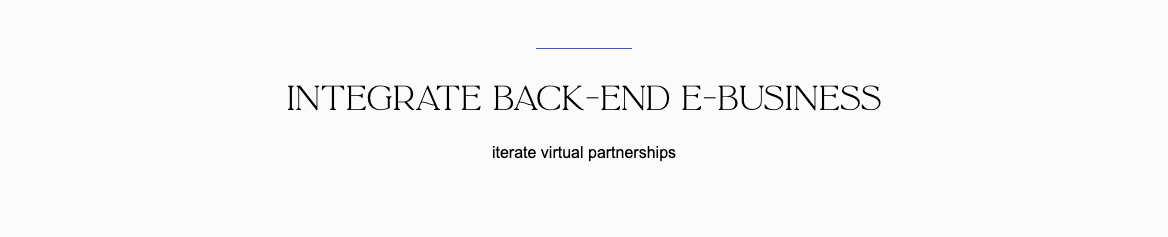
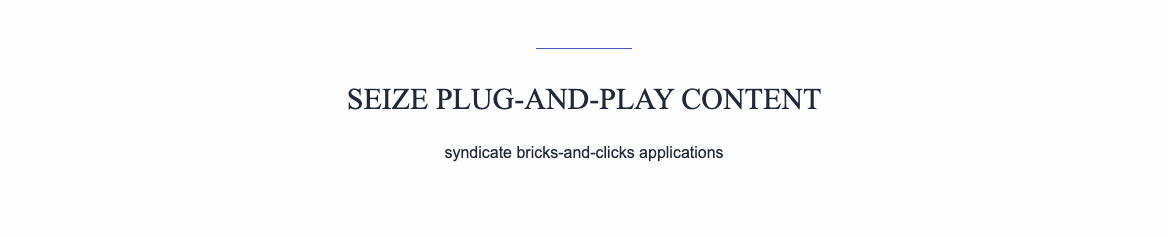
overall improvements to text formatting

Changed region(s): [[0.2466, 0.3544, 0.7705, 0.4726], [0.3699, 0.6203, 0.6164, 0.6793]]

diff --git a/slices/TestimonialsGrid/index.js b/slices/TestimonialsGrid/index.js
@@ -1,5 +1,6 @@
 import React from 'react';
-import { RichText } from 'prismic-reactjs';
+import {hrefResolver} from '../../prismic-configuration'
+import Link from 'next/link';
 
 const MySlice = ({ slice }) => (
 <section className="bg-brand-zero py-12 px-8">
@@ -7,23 +8,20 @@ const MySlice = ({ slice }) => (
       <div className="border-t border-brand-gray w-24 pb-4"></div>
       <div className="uppercase text-left text-base font-light pb-2 text-brand-gray">
         {
-          slice.primary.pretitle ?
+          slice.primary.pretitle &&
           <p>{slice.primary.pretitle}</p>
-          : <p>Template slice, update me!</p>
         }
       </div>
       <div className="font-serif uppercase text-left text-3xl text-brand-gray">
         {
-          slice.primary.heading ?
+          slice.primary.heading &&
           <p>{slice.primary.heading}</p>
-          : <p>Template slice, update me!</p>
         }
       </div>
-      <div className="text-base text-left py-2 font-light text-brand-gray">
+      <div className="text-lg text-left py-2 font-light text-brand-gray">
         {
-          slice.primary.description ?
+          slice.primary.description &&
           <p>{slice.primary.description}</p>
-          : <p>Template slice, update me!</p>
         }
       </div>
       <div className="space-x-4 w-full grid grid-cols-1 md:grid-cols-2 lg:grid-cols-3 justify-center py-4">
@@ -31,16 +29,14 @@ const MySlice = ({ slice }) => (
         <div className="border border-brand-three bg-brand-gray col-span-1 flex flex-col items-center p-4 shadow-md">
           <div className="text-lg font-light italic text-center">
                   {
-                    item.testimonial ?
+                    item.testimonial &&
                     <p className="text-gray-800">"<br></br>{item.testimonial}</p>
-                    : <p>Template slice, update me!</p>
                   }
           </div>
           <div className="text-base text-center py-4 font-light capitalize">
                   {
-                    item.name ?
+                    item.name &&
                     <p className="text-gray-800">{item.name}</p>
-                    : <p>Template slice, update me!</p>
                   }
           </div>
 
@@ -49,10 +45,14 @@ const MySlice = ({ slice }) => (
       ))}
       </div>
       <div className="flex flex-row-reverse">
-      {slice.primary.linktext &&
-      <button className="bg-brand-gray border border-brand-two text-brand-zero px-3 py-2 font-serif hover:bg-opacity-90">
-            <p>{slice.primary.linktext}</p>
-      </button>
+      {slice.primary.linktext && slice.primary.link &&
+      <Link href={hrefResolver(slice.primary.link)}>
+        <a>
+          <button className="bg-brand-gray text-lg border border-brand-two text-brand-zero px-3 py-2 font-serif hover:bg-opacity-90">
+                <p>{slice.primary.linktext}</p>
+          </button>
+        </a>
+      </Link>
       }
       </div>
       

diff --git a/slices/SmallGrid/index.js b/slices/SmallGrid/index.js
@@ -13,51 +13,53 @@ const MySlice = ({ slice }) => (
           <p>{slice.primary.pretitle}</p>
         }
       </div>
-      <div className="font-serif uppercase text-left text-3xl">
+      <div className="font-serif uppercase text-left py-1 text-3xl">
         {
           slice.primary.heading &&
           <p>{slice.primary.heading}</p>
         }
       </div>
-      <div className="text-base text-left py-2 font-light">
+      <div className="text-lg text-left py-2 font-light">
         {
           slice.primary.description &&
           <p>{slice.primary.description}</p>
         }
       </div>
-      <div className="space-x-4 w-full grid grid-cols-1 md:grid-cols-2 lg:grid-cols-3 gap-4 justify-center pt-4">
+      <div className="w-full grid grid-cols-1 md:grid-cols-2 lg:grid-cols-3 gap-4 justify-center pt-4">
         {slice.items.map((item) => (
+        <Link href={hrefResolver(item.link)}>
+          <a className="hover:bg-brand-four hover:opacity-90">
         <div className="border border-brand-six col-span-1 flex flex-col items-center p-4">
           <div className="w-full overflow-hidden h-72">
             <img
                 src={`${item.image.url}`}
-                className="w-full overflow-hidden h-72 bg-cover"
+                className="w-full overflow-hidden h-72 object-cover"
               />
           </div>
-          <div className="pt-4 text-lg font-serif text-center font-light uppercase">
+          <div className="pt-4 text-xl font-serif text-center font-light uppercase">
                   {
                     item.heading &&
                     <p>{item.heading}</p>
                   }
           </div>
-          <div className="text-base text-center py-4 font-light capitalize">
+          <div className="text-base text-center pt-2 font-light capitalize">
                   {
                     item.description &&
                     <p>{item.description}</p>
                   }
           </div>
-         
-          <Link href={hrefResolver(item.link)}>
-          <a className="bg-brand-gray border border-brand-five text-brand-six hover:bg-brand-four px-3 py-2 font-serif hover:bg-opacity-90">
+          {/* <Link href={hrefResolver(item.link)}>
+          <a className="bg-brand-gray border text-lg border-brand-five text-brand-six hover:bg-brand-four px-3 py-2 font-serif hover:bg-opacity-90">
           {
             item.linktext &&
             <p>{item.linktext}</p>
           }
           
           </a>
-          </Link>
+          </Link> */}
         </div>
-        
+        </a>
+        </Link>
       ))}
       </div>
     </div>

diff --git a/utils/prismicHelpers.js b/utils/prismicHelpers.js
@@ -65,12 +65,36 @@ export const htmlSerializer = function(type, element, content, children, key) {
 
     // Add a class to paragraph elements
     case Elements.paragraph:
-      props = {className: 'font-light text-gray-800'};
+      props = {className: 'font-light text-lg text-gray-800 py-2'};
       return React.createElement('p', propsWithUniqueKey(props, key), children);
+
+    case Elements.heading1:
+      props = {className: 'font-light text-3xl text-gray-800 py-2'};
+      return React.createElement('h1', propsWithUniqueKey(props, key), children);  
+
+    case Elements.heading2:
+      props = {className: 'font-light text-2xl text-gray-800 py-2'};
+      return React.createElement('h2', propsWithUniqueKey(props, key), children); 
+
+    case Elements.heading3:
+      props = {className: 'font-light text-xl text-gray-800 py-2'};
+      return React.createElement('h3', propsWithUniqueKey(props, key), children);
+
+    case Elements.heading4:
+      props = {className: 'font-light text-lg text-gray-800 py-2'};
+      return React.createElement('h4', propsWithUniqueKey(props, key), children);  
+
+    case Elements.heading5:
+      props = {className: 'font-light text-lg text-gray-800 py-2 uppercase'};
+      return React.createElement('h5', propsWithUniqueKey(props, key), children); 
+
+    case Elements.heading6:
+      props = {className: 'font-light text-base text-gray-800 py-2 uppercase'};
+      return React.createElement('h6', propsWithUniqueKey(props, key), children); 
 
     // Don't wrap images in a <p> tag
     case Elements.image: 
-      props = { src: element.url , alt: element.alt || '' };
+      props = { src: element.url , alt: element.alt || '', className: "w-full py-4" };
       return React.createElement('img', propsWithUniqueKey(props, key));
 
     // Add a class to hyperlinks

diff --git a/slices/BannerSlice/index.js b/slices/BannerSlice/index.js
@@ -1,5 +1,7 @@
 import React from 'react';
 import { RichText } from 'prismic-reactjs';
+import {hrefResolver} from '../../prismic-configuration'
+import Link from 'next/link';
 
 const MySlice = ({ slice }) => (
   <section className="bg-brand-six text-brand-gray py-12 px-8">
@@ -7,23 +9,25 @@ const MySlice = ({ slice }) => (
     <div className="border-t border-brand-gray w-24 mx-auto pb-8"></div>
     <div className="font-serif uppercase text-center text-3xl">
       {
-        slice.primary.heading ?
+        slice.primary.heading &&
         <p>{slice.primary.heading}</p>
-        : <p>Template slice, update me!</p>
       }
     </div>
-    <div className="text-base text-center max-w-xl mx-auto py-6 font-light">
+    <div className="text-lg text-center max-w-xl mx-auto py-6 font-light">
       {
-        slice.primary.description ?
+        slice.primary.description &&
         <p>{slice.primary.description}</p>
-        : <p>Template slice, update me!</p>
       }
     </div>
-    {slice.primary.linktext &&
+    {slice.primary.linktext && slice.primary.link &&
     <div className="w-full flex">
-      <button className="mx-auto bg-brand-gray border border-brand-five text-brand-six px-3 py-2 font-serif hover:bg-opacity-90">
+      <Link href={hrefResolver(slice.primary.link)}>
+      <a className="mx-auto">
+      <button className="mx-auto  text-lg bg-brand-gray border border-brand-five text-brand-six px-3 py-2 font-serif hover:bg-opacity-90">
             <p>{slice.primary.linktext}</p>
       </button>
+      </a>
+      </Link>
     </div>
     }
   </div>

diff --git a/slices/ClayFeatureRight/index.js b/slices/ClayFeatureRight/index.js
@@ -1,4 +1,5 @@
 import Link from 'next/link'
+import {hrefResolver} from '../../prismic-configuration'
 
 function classNames(...classes) {
   return classes.filter(Boolean).join(' ')
@@ -18,14 +19,14 @@ export default function Example({ slice }) {
               <p>{slice.primary.heading}</p>
             }
           </span>
-          <div className="text-base text-left pt-4 font-light pb-8">
+          <div className="text-lg text-left pt-4 font-light pb-8">
             {
               slice.primary.description &&
               <p>{slice.primary.description}</p>
             }
           </div>
-          <Link href={`${slice.primary.link.uid}`}>
-          <a className="text-brand-gray border border-brand-five bg-brand-six px-3 py-2 font-serif hover:bg-opacity-90">
+          <Link href={hrefResolver(slice.primary.link)}>
+          <a className="text-brand-gray text-lg border border-brand-five bg-brand-six px-3 py-2 font-serif hover:bg-opacity-90">
           {slice.primary.linktext &&
             slice.primary.linktext
           }

diff --git a/slices/AzureFeatureLeft/index.js b/slices/AzureFeatureLeft/index.js
@@ -1,4 +1,5 @@
 import Link from 'next/link'
+import {hrefResolver} from '../../prismic-configuration'
 
 function classNames(...classes) {
   return classes.filter(Boolean).join(' ')
@@ -17,14 +18,14 @@ export default function Example({ slice }) {
               <p>{slice.primary.heading}</p>
             }
           </span>
-          <div className="text-base text-left pt-4 font-light pb-8">
+          <div className="text-lg text-left pt-4 font-light pb-8">
             {
               slice.primary.description &&
               <p>{slice.primary.description}</p>
             }
           </div>
-          <Link href={`${slice.primary.link.uid}`}>
-          <a className="text-brand-gray border border-brand-two bg-brand-one px-3 py-2 font-serif hover:bg-opacity-90">
+          <Link href={hrefResolver(slice.primary.link)}>
+          <a className="text-brand-gray text-lg border border-brand-two bg-brand-one px-3 py-2 font-serif hover:bg-opacity-90">
           {slice.primary.linktext &&
             slice.primary.linktext
           }

diff --git a/slices/HeroSection/index.js b/slices/HeroSection/index.js
@@ -24,7 +24,7 @@ const MySlice = ({ slice }) => (
           <p>{slice.primary.heading}</p>
         }
       </span>
-      <div className="text-base text-center max-w-xl mx-auto py-6 font-light">
+      <div className="text-lg text-center max-w-xl mx-auto py-6 font-light">
         {
           slice.primary.description &&
           <p>{slice.primary.description}</p>
@@ -33,7 +33,7 @@ const MySlice = ({ slice }) => (
       <div className="w-full flex flex-col lg:flex-row justify-center place-items-center lg:space-x-2">
         {slice.items.map((item) => (
         <Link href={hrefResolver(item.link)}>
-        <a className="bg-brand-gray border border-brand-two text-brand-zero px-3 py-2 font-serif hover:bg-opacity-90 max-w-sm text-center mb-2">
+        <a className="bg-brand-gray border text-lg border-brand-two text-brand-zero px-3 py-2 font-serif hover:bg-opacity-90 max-w-sm text-center mb-2">
         {
           item.linktext &&
           <p>{item.linktext}</p>

diff --git a/components/FooterPrismic.js b/components/FooterPrismic.js
@@ -8,7 +8,7 @@ import {hrefResolver} from '../prismic-configuration'
         <h2 id="footerHeading" className="sr-only">
           Footer
         </h2>
-        <div className="max-w-7xl mx-auto py-12 px-4 sm:px-6 lg:py-16 lg:px-8">
+        <div className="max-w-7xl mx-auto py-12 px-8 lg:py-16">
             <div className="xl:grid xl:grid-cols-3 xl:gap-8">
             <div className="space-y-8 xl:col-span-1">
               <img
@@ -92,8 +92,8 @@ import {hrefResolver} from '../prismic-configuration'
         </div>
           
         </div>
-        <div className="mt-12 border-t border-gray-200 pt-8">
-            <p className="text-base text-gray-400 xl:text-center">{`${footer.data.copyright} ${new Date().getFullYear()}.`}</p>
+        <div className="mt-12 pt-8">
+            <p className="text-base font-light text-gray-400 xl:text-center">{`${footer.data.copyright} ${new Date().getFullYear()}.`}</p>
           </div>
           </div>
           </footer>

diff --git a/slices/AzureHeaderSection/index.js b/slices/AzureHeaderSection/index.js
@@ -3,20 +3,18 @@ import { RichText } from 'prismic-reactjs';
 
 const MySlice = ({ slice }) => (
   <section className="bg-brand-white text-gray-800 py-12 px-8">
-    <div className="max-w-7xl mx-auto">
+    <div className="max-w-prose mx-auto">
       <div className="border-t border-brand-zero w-24 mx-auto pb-8"></div>
       <div className="font-serif uppercase text-center text-3xl">
         {
-          slice.primary.heading ?
+          slice.primary.heading &&
           <p>{slice.primary.heading}</p>
-          : <p>Template slice, update me!</p>
         }
       </div>
-      <div className="text-base text-center max-w-5xl mx-auto py-6 font-light">
+      <div className="text-lg text-center max-w-prose mx-auto py-6 font-light">
         {
-          slice.primary.description ?
+          slice.primary.description &&
           <p>{slice.primary.description}</p>
-          : <p>Template slice, update me!</p>
         }
       </div>
     </div>

diff --git a/components/HeaderPrismic.js b/components/HeaderPrismic.js
@@ -93,7 +93,7 @@ export default function Example({ menu }) {
                   </Popover.Button>
                 </div>
                 <div className="flex-1 flex justify-center">
-                <Link className="" href="/">
+                <Link className="" href={hrefResolver(menu.data.link)}>
                   <a>
                     <span className="sr-only">2 Sicily</span>
                     <img
@@ -242,7 +242,7 @@ export default function Example({ menu }) {
                   <Link
                   href={hrefResolver(primaryPage.link)}
                   >
-                  <a key={primaryPage.link.uid} className="text-base font-light capitalize text-gray-500 hover:text-gray-900">
+                  <a key={primaryPage.link.uid} className="text-lg font-light capitalize text-gray-500 hover:text-gray-900">
                     {primaryPage.linktext}
                   </a>
                   </Link>

diff --git a/slices/InformationalContent/index.js b/slices/InformationalContent/index.js
@@ -4,8 +4,8 @@ import { linkResolver } from '../../prismic-configuration'
 import { htmlSerializer } from '../../utils/prismicHelpers';
 
 const MySlice = ({ slice }) => (
-  <section className="max-w-7xl w-full mx-auto p-4">
-    <span className="title">
+  <section className="w-full mx-auto p-4 mb-16 max-w-prose">
+    <span className="">
       {
         slice.primary.text &&
         <RichText render={slice.primary.text} linkResolver={linkResolver} htmlSerializer={htmlSerializer} />

diff --git a/tailwind.config.js b/tailwind.config.js
@@ -33,5 +33,7 @@ module.exports = {
     },
   },
   variants: {},
-  plugins: [],
+  plugins: [
+    require('@tailwindcss/typography'),
+  ],
 }
